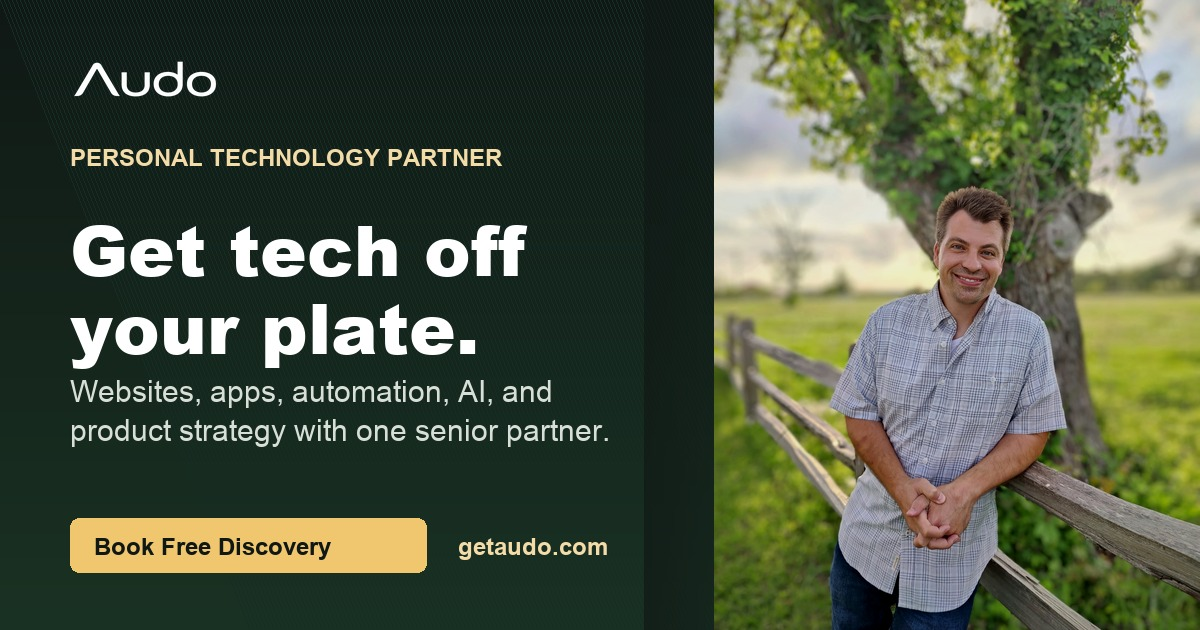
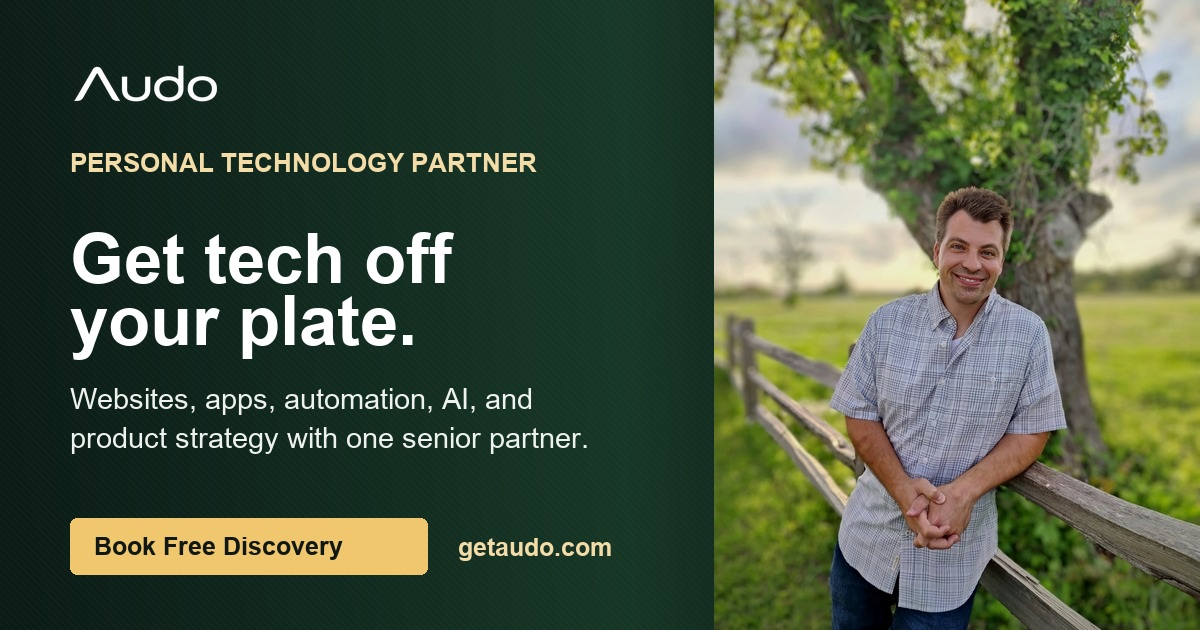
Tune homepage social card spacing

diff --git a/index.html b/index.html
@@ -18,8 +18,8 @@
   <meta property="og:url" content="https://getaudo.com/">
   <meta property="og:title" content="Get tech off your plate.">
   <meta property="og:description" content="One senior technology partner for websites, apps, automation, AI coaching, and product strategy. Book Free Discovery.">
-  <meta property="og:image" content="https://getaudo.com/assets/audo-social-card-free-discovery.jpg">
-  <meta property="og:image:secure_url" content="https://getaudo.com/assets/audo-social-card-free-discovery.jpg">
+  <meta property="og:image" content="https://getaudo.com/assets/audo-social-card-free-discovery.jpg?v=20260702-spacing">
+  <meta property="og:image:secure_url" content="https://getaudo.com/assets/audo-social-card-free-discovery.jpg?v=20260702-spacing">
   <meta property="og:image:type" content="image/jpeg">
   <meta property="og:image:width" content="1200">
   <meta property="og:image:height" content="630">
@@ -27,7 +27,7 @@
   <meta name="twitter:card" content="summary_large_image">
   <meta name="twitter:title" content="Get tech off your plate.">
   <meta name="twitter:description" content="Senior tech partner for websites, apps, automation, AI, and product decisions without agency overhead.">
-  <meta name="twitter:image" content="https://getaudo.com/assets/audo-social-card-free-discovery.jpg">
+  <meta name="twitter:image" content="https://getaudo.com/assets/audo-social-card-free-discovery.jpg?v=20260702-spacing">
   <meta name="twitter:image:alt" content="Audo social card with Aaron Hancock, the message Get tech off your plate, and a Book Free Discovery call to action.">
   <link rel="icon" href="/favicon.ico?v=20260630-logo-white-a">
   <link rel="icon" href="/assets/favicon.svg?v=20260630-logo-white-a" type="image/svg+xml">
@@ -58,7 +58,7 @@
           "@id": "https://getaudo.com/#business",
           "name": "Audo",
           "url": "https://getaudo.com/",
-          "image": "https://getaudo.com/assets/audo-social-card-free-discovery.jpg",
+          "image": "https://getaudo.com/assets/audo-social-card-free-discovery.jpg?v=20260702-spacing",
           "logo": "https://getaudo.com/assets/audo-logo-white.png",
           "description": "Audo provides senior technology consulting for websites, web applications, automation, AI coaching, product strategy, and ongoing support.",
           "founder": {
